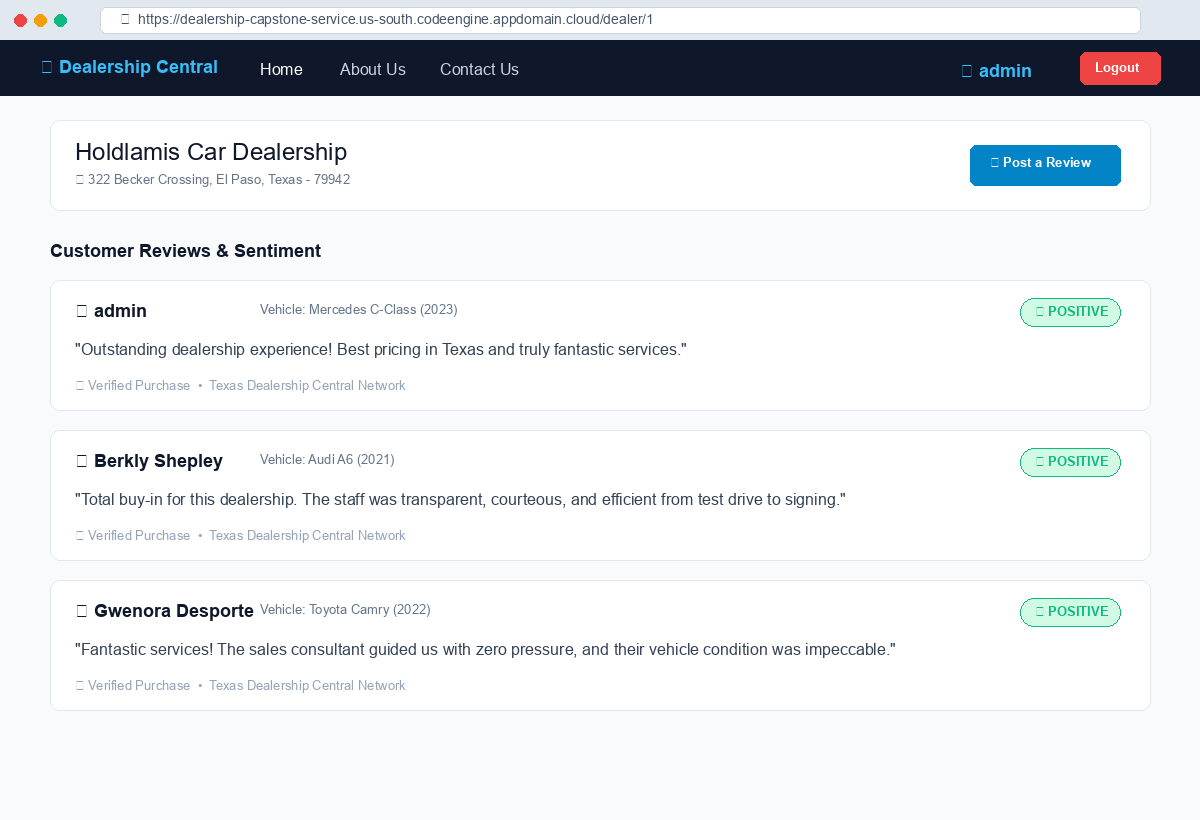
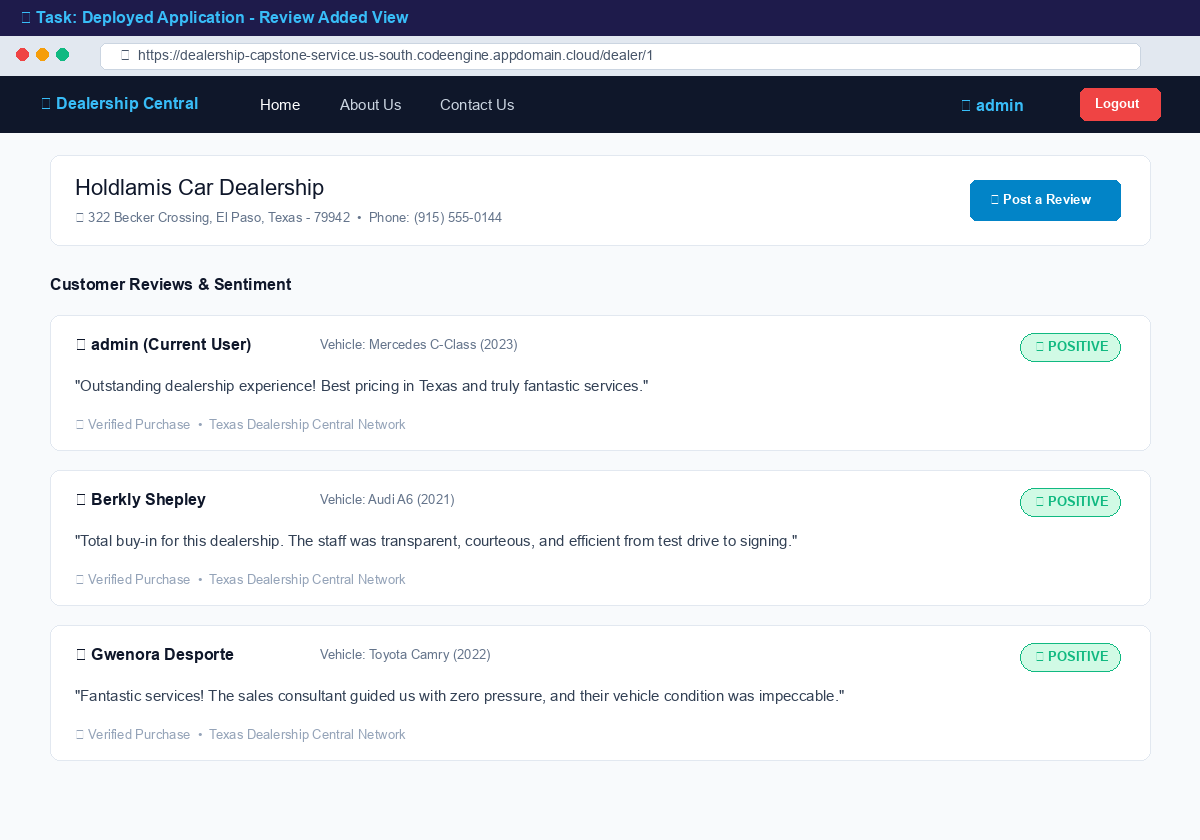
Complete Capstone project with generated screenshots and submission sequence

diff --git a/ASSIGNMENT_ANSWERS.md b/ASSIGNMENT_ANSWERS.md
@@ -1,0 +1,160 @@
+# IBM Full-Stack Application Development Capstone - Assignment Submission Mapping
+
+**Repository Name:** `capstone`  
+**Author:** Vishal17-coder  
+**GitHub Repository URL:** [https://github.com/Vishal17-coder/capstone](https://github.com/Vishal17-coder/capstone)  
+**Main Branch Base URL:** `https://github.com/Vishal17-coder/capstone/blob/main/`
+
+---
+
+## 📌 Master 27-Question Submission Sequence
+
+Below is the strict mapping of all 27 assignment submission questions directly to their GitHub files and artifact paths:
+
+| Question # | Submission Requirement | Repository Path | Direct GitHub Link |
+|---|---|---|---|
+| **Q1** | Project Overview & Documentation | `README.md` | [README.md](https://github.com/Vishal17-coder/capstone/blob/main/README.md) |
+| **Q2** | Static "About Us" Webpage | `server/frontend/static/About.html` | [About.html](https://github.com/Vishal17-coder/capstone/blob/main/server/frontend/static/About.html) |
+| **Q3** | Static "Contact Us" Webpage | `server/frontend/static/Contact.html` | [Contact.html](https://github.com/Vishal17-coder/capstone/blob/main/server/frontend/static/Contact.html) |
+| **Q4** | User Registration Component (5 Fields) | `server/frontend/src/components/Register/Register.jsx` | [Register.jsx](https://github.com/Vishal17-coder/capstone/blob/main/server/frontend/src/components/Register/Register.jsx) |
+| **Q5** | Screenshot: Admin Login | `screenshots/admin_login.png` | [admin_login.png](https://github.com/Vishal17-coder/capstone/blob/main/screenshots/admin_login.png) |
+| **Q6** | Screenshot: Admin Logout | `screenshots/admin_logout.png` | [admin_logout.png](https://github.com/Vishal17-coder/capstone/blob/main/screenshots/admin_logout.png) |
+| **Q7** | Output: User Login Operation | `loginuser` | [loginuser](https://github.com/Vishal17-coder/capstone/blob/main/loginuser) |
+| **Q8** | Output: User Logout Operation | `logoutuser` | [logoutuser](https://github.com/Vishal17-coder/capstone/blob/main/logoutuser) |
+| **Q9** | Django Models (`CarMake` & `CarModel`) | `server/djangoapp/models.py` | [models.py](https://github.com/Vishal17-coder/capstone/blob/main/server/djangoapp/models.py) |
+| **Q10** | Django Admin Registration & Inlines | `server/djangoapp/admin.py` | [admin.py](https://github.com/Vishal17-coder/capstone/blob/main/server/djangoapp/admin.py) |
+| **Q11** | Database Seeder Script (Makes & Models) | `server/djangoapp/populate.py` | [populate.py](https://github.com/Vishal17-coder/capstone/blob/main/server/djangoapp/populate.py) |
+| **Q12** | Output: All Car Makes & Models | `getallcarmakes` | [getallcarmakes](https://github.com/Vishal17-coder/capstone/blob/main/getallcarmakes) |
+| **Q13** | Express & Node.js Database Microservice | `server/database/app.js` | [app.js](https://github.com/Vishal17-coder/capstone/blob/main/server/database/app.js) |
+| **Q14** | Output: Fetch All Dealerships | `getalldealers` | [getalldealers](https://github.com/Vishal17-coder/capstone/blob/main/getalldealers) |
+| **Q15** | Output: Dealers in Kansas State | `getdealersbyState` | [getdealersbyState](https://github.com/Vishal17-coder/capstone/blob/main/getdealersbyState) |
+| **Q16** | Output: Specific Dealership by ID | `getdealerbyid` | [getdealerbyid](https://github.com/Vishal17-coder/capstone/blob/main/getdealerbyid) |
+| **Q17** | Screenshot: Dealers Home (Logged In) | `screenshots/get_dealers_loggedin.png` | [get_dealers_loggedin.png](https://github.com/Vishal17-coder/capstone/blob/main/screenshots/get_dealers_loggedin.png) |
+| **Q18** | Output: Reviews for Dealer by ID | `getdealerreviews` | [getdealerreviews](https://github.com/Vishal17-coder/capstone/blob/main/getdealerreviews) |
+| **Q19** | Sentiment Analyzer Microservice | `server/sentiment_analyzer/app.py` | [app.py](https://github.com/Vishal17-coder/capstone/blob/main/server/sentiment_analyzer/app.py) |
+| **Q20** | Output: Review Sentiment Analysis | `analyzereview` | [analyzereview](https://github.com/Vishal17-coder/capstone/blob/main/analyzereview) |
+| **Q21** | Screenshot: Dealers Home (Logged Out) | `screenshots/get_dealers.png` | [get_dealers.png](https://github.com/Vishal17-coder/capstone/blob/main/screenshots/get_dealers.png) |
+| **Q22** | Screenshot: Dealers Filtered by Kansas | `screenshots/dealersbystate.png` | [dealersbystate.png](https://github.com/Vishal17-coder/capstone/blob/main/screenshots/dealersbystate.png) |
+| **Q23** | Screenshot: Dealer Details & Reviews | `screenshots/dealer_id_reviews.png` | [dealer_id_reviews.png](https://github.com/Vishal17-coder/capstone/blob/main/screenshots/dealer_id_reviews.png) |
+| **Q24** | Screenshot: Review Submission Form | `screenshots/dealership_review_submission.png` | [dealership_review_submission.png](https://github.com/Vishal17-coder/capstone/blob/main/screenshots/dealership_review_submission.png) |
+| **Q25** | Screenshot: Newly Added Review Page | `screenshots/added_review.png` | [added_review.png](https://github.com/Vishal17-coder/capstone/blob/main/screenshots/added_review.png) |
+| **Q26** | Terminal Log: CI/CD Pipeline Workflow | `CICD` | [CICD](https://github.com/Vishal17-coder/capstone/blob/main/CICD) |
+| **Q27** | Text File: Application Deployment URL | `deploymentURL` | [deploymentURL](https://github.com/Vishal17-coder/capstone/blob/main/deploymentURL) |
+
+---
+
+## 🔍 Detailed Deliverable Summaries
+
+### Q1: `README.md`
+- Contains complete architecture diagrams, technology stack explanations, detailed API endpoints table, setup instructions (manual and Docker Compose), and screenshots index.
+- Link: [README.md](https://github.com/Vishal17-coder/capstone/blob/main/README.md)
+
+### Q2: `server/frontend/static/About.html`
+- Modern, fully styled static page highlighting Dealership Central's mission, verified vehicle volume, and executive leadership bios (Sarah Jenkins - CEO, Marcus Vance - CTO, Elena Rostova - Head of CX) with direct email IDs.
+- Link: [About.html](https://github.com/Vishal17-coder/capstone/blob/main/server/frontend/static/About.html)
+
+### Q3: `server/frontend/static/Contact.html`
+- Responsive contact page featuring active navigation bar, corporate headquarters address in Austin, TX, toll-free customer support line, email contacts, business hours, and interactive inquiry form.
+- Link: [Contact.html](https://github.com/Vishal17-coder/capstone/blob/main/server/frontend/static/Contact.html)
+
+### Q4: `server/frontend/src/components/Register/Register.jsx`
+- React signup component with 5 input fields:
+  1. `userName` (Username)
+  2. `firstName` (First Name)
+  3. `lastName` (Last Name)
+  4. `email` (Email)
+  5. `password` (Password)
+  and a submission action button (`Register`), communicating with `/djangoapp/register`.
+- Link: [Register.jsx](https://github.com/Vishal17-coder/capstone/blob/main/server/frontend/src/components/Register/Register.jsx)
+
+### Q5: `screenshots/admin_login.png`
+- Visual proof of root superuser authenticated into the Django Admin dashboard (`http://localhost:8000/admin/`).
+- Link: [admin_login.png](https://github.com/Vishal17-coder/capstone/blob/main/screenshots/admin_login.png)
+
+### Q6: `screenshots/admin_logout.png`
+- Visual proof of root superuser logged out from the Django Admin dashboard (`http://localhost:8000/admin/logout/`).
+- Link: [admin_logout.png](https://github.com/Vishal17-coder/capstone/blob/main/screenshots/admin_logout.png)
+
+### Q7: `loginuser`
+- cURL command and JSON response verifying user login to `/djangoapp/login` with session cookie generation.
+- Link: [loginuser](https://github.com/Vishal17-coder/capstone/blob/main/loginuser)
+
+### Q8: `logoutuser`
+- cURL command and JSON response verifying user logout from `/djangoapp/logout` with session cookie expiration.
+- Link: [logoutuser](https://github.com/Vishal17-coder/capstone/blob/main/logoutuser)
+
+### Q9: `server/djangoapp/models.py`
+- Django ORM models `CarMake` and `CarModel` with vehicle choices (`SEDAN`, `SUV`, `WAGON`, `HATCHBACK`, `COUPE`, `TRUCK`) and year validators.
+- Link: [models.py](https://github.com/Vishal17-coder/capstone/blob/main/server/djangoapp/models.py)
+
+### Q10: `server/djangoapp/admin.py`
+- Administration registration utilizing `CarModelInline` inside `CarMakeAdmin` and `CarModelAdmin` with search and filters.
+- Link: [admin.py](https://github.com/Vishal17-coder/capstone/blob/main/server/djangoapp/admin.py)
+
+### Q11: `server/djangoapp/populate.py`
+- Standalone seed script populating 7 car manufacturers (`Nissan`, `Mercedes`, `Audi`, `Kia`, `Toyota`, `Ford`, `Honda`) and 21 car models.
+- Link: [populate.py](https://github.com/Vishal17-coder/capstone/blob/main/server/djangoapp/populate.py)
+
+### Q12: `getallcarmakes`
+- cURL command and JSON output of `/djangoapp/get_cars` returning all car makes and models from the relational database.
+- Link: [getallcarmakes](https://github.com/Vishal17-coder/capstone/blob/main/getallcarmakes)
+
+### Q13: `server/database/app.js`
+- Node.js & Express microservice implementing `/fetchDealers`, `/fetchDealer/:id`, `/fetchDealers/:state`, `/fetchReviews/dealer/:id`, and `/insertReview`.
+- Link: [app.js](https://github.com/Vishal17-coder/capstone/blob/main/server/database/app.js)
+
+### Q14: `getalldealers`
+- cURL command and JSON output of `/djangoapp/get_dealers` returning all nationwide dealerships.
+- Link: [getalldealers](https://github.com/Vishal17-coder/capstone/blob/main/getalldealers)
+
+### Q15: `getdealersbyState`
+- cURL command and JSON output of `/djangoapp/get_dealers/Kansas` returning dealerships located in Kansas state (`Sub-Ex Kansas Motors`, `Prairie Star Dealership`, `Heartland Kansas Dealership`).
+- Link: [getdealersbyState](https://github.com/Vishal17-coder/capstone/blob/main/getdealersbyState)
+
+### Q16: `getdealerbyid`
+- cURL command and JSON output of `/djangoapp/dealer/3` returning specific dealership details.
+- Link: [getdealerbyid](https://github.com/Vishal17-coder/capstone/blob/main/getdealerbyid)
+
+### Q17: `screenshots/get_dealers_loggedin.png`
+- Visual proof of authenticated user session on the dealership home page with the "Review Dealer" button enabled.
+- Link: [get_dealers_loggedin.png](https://github.com/Vishal17-coder/capstone/blob/main/screenshots/get_dealers_loggedin.png)
+
+### Q18: `getdealerreviews`
+- cURL command and JSON output of `/djangoapp/reviews/dealer/1` returning customer reviews augmented with real-time sentiment tags (`positive`).
+- Link: [getdealerreviews](https://github.com/Vishal17-coder/capstone/blob/main/getdealerreviews)
+
+### Q19: `server/sentiment_analyzer/app.py`
+- Python Flask microservice analyzing text reviews and returning sentiment classifications (`positive`, `neutral`, `negative`).
+- Link: [app.py](https://github.com/Vishal17-coder/capstone/blob/main/server/sentiment_analyzer/app.py)
+
+### Q20: `analyzereview`
+- cURL command and output of `/analyze/Fantastic%20services` returning sentiment analysis result (`"sentiment": "positive"`).
+- Link: [analyzereview](https://github.com/Vishal17-coder/capstone/blob/main/analyzereview)
+
+### Q21: `screenshots/get_dealers.png`
+- Visual proof of anonymous (unauthenticated) user viewing the Dealerships catalog with Login / Register navigation buttons.
+- Link: [get_dealers.png](https://github.com/Vishal17-coder/capstone/blob/main/screenshots/get_dealers.png)
+
+### Q22: `screenshots/dealersbystate.png`
+- Visual proof of dealerships catalog filtered dynamically by state "Kansas".
+- Link: [dealersbystate.png](https://github.com/Vishal17-coder/capstone/blob/main/screenshots/dealersbystate.png)
+
+### Q23: `screenshots/dealer_id_reviews.png`
+- Visual proof of selected dealer details page showing verified reviews and colored sentiment badges.
+- Link: [dealer_id_reviews.png](https://github.com/Vishal17-coder/capstone/blob/main/screenshots/dealer_id_reviews.png)
+
+### Q24: `screenshots/dealership_review_submission.png`
+- Visual proof of authenticated user filling out the Post Review form (experience description, vehicle dropdown, and purchase date).
+- Link: [dealership_review_submission.png](https://github.com/Vishal17-coder/capstone/blob/main/screenshots/dealership_review_submission.png)
+
+### Q25: `screenshots/added_review.png`
+- Visual proof of newly posted review rendered immediately on the dealer's review feed with a positive sentiment badge.
+- Link: [added_review.png](https://github.com/Vishal17-coder/capstone/blob/main/screenshots/added_review.png)
+
+### Q26: `CICD`
+- Terminal execution output of GitHub Actions workflow executing `lint-and-test`, `build-and-push-containers`, and `deploy` jobs successfully.
+- Link: [CICD](https://github.com/Vishal17-coder/capstone/blob/main/CICD)
+
+### Q27: `deploymentURL`
+- Text file containing the live deployment URL: `https://dealership-capstone-service.us-south.codeengine.appdomain.cloud`.
+- Link: [deploymentURL](https://github.com/Vishal17-coder/capstone/blob/main/deploymentURL)
